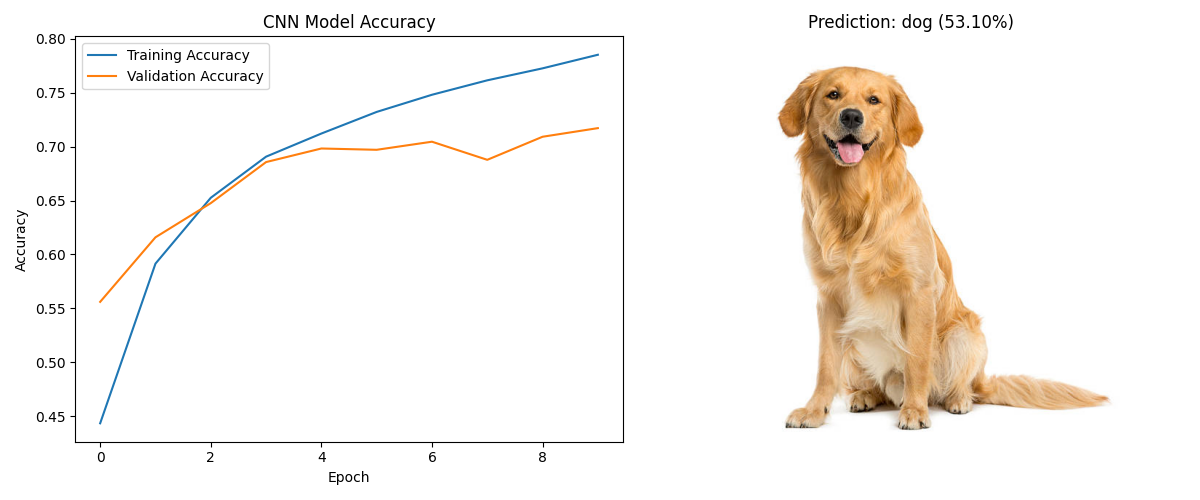
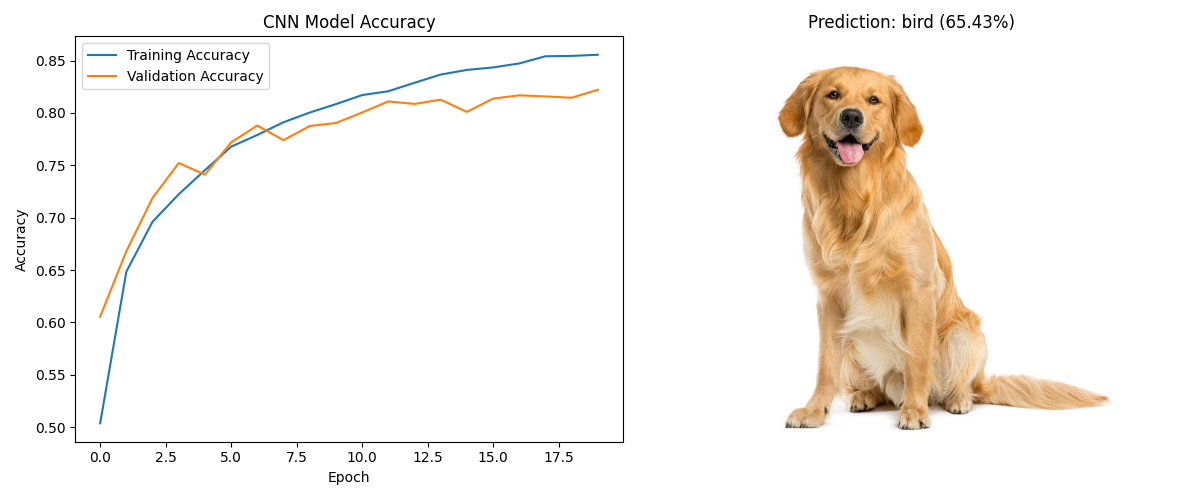
feat: Add model saving and loading mechanism to skip redundant training

diff --git a/5주차_과제/02_cifar10_cnn.py b/5주차_과제/02_cifar10_cnn.py
@@ -25,37 +25,52 @@ class_names = ['airplane', 'automobile', 'bird', 'cat', 'deer',
 # 2. 데이터 전처리 (0~1 범위로 정규화)
 x_train, x_test = x_train / 255.0, x_test / 255.0
 
-# 3. CNN 모델 설계 (정확도 향상 버전)
-model = Sequential([
-    Conv2D(32, (3, 3), padding='same', activation='relu', input_shape=(32, 32, 3)),
-    BatchNormalization(),
-    Conv2D(32, (3, 3), padding='same', activation='relu'),
-    BatchNormalization(),
-    MaxPooling2D((2, 2)),
-    Dropout(0.25),
+# 3~5. 모델 불러오기 또는 새로 훈련하기
+model_path = os.path.join(results_dir, 'cifar10_model.keras')
 
-    Conv2D(64, (3, 3), padding='same', activation='relu'),
-    BatchNormalization(),
-    Conv2D(64, (3, 3), padding='same', activation='relu'),
-    BatchNormalization(),
-    MaxPooling2D((2, 2)),
-    Dropout(0.25),
+if os.path.exists(model_path):
+    # 저장된 모델이 있으면 훈련 건너뛰고 바로 불러오기
+    print(f"\n저장된 모델을 발견했습니다! 훈련을 생략하고 '{model_path}'에서 불러옵니다.")
+    model = tf.keras.models.load_model(model_path)
+    trained_now = False
+else:
+    print("\n저장된 모델이 없습니다. 새롭게 훈련을 시작합니다 (이후에는 자동으로 저장되어 훈련이 생략될 수 있습니다).")
+    # 3. CNN 모델 설계 (정확도 향상 버전)
+    model = Sequential([
+        Conv2D(32, (3, 3), padding='same', activation='relu', input_shape=(32, 32, 3)),
+        BatchNormalization(),
+        Conv2D(32, (3, 3), padding='same', activation='relu'),
+        BatchNormalization(),
+        MaxPooling2D((2, 2)),
+        Dropout(0.25),
 
-    Flatten(),
-    Dense(128, activation='relu'),
-    BatchNormalization(),
-    Dropout(0.5),
-    Dense(10, activation='softmax')
-])
+        Conv2D(64, (3, 3), padding='same', activation='relu'),
+        BatchNormalization(),
+        Conv2D(64, (3, 3), padding='same', activation='relu'),
+        BatchNormalization(),
+        MaxPooling2D((2, 2)),
+        Dropout(0.25),
 
-# 4. 모델 훈련 설정 (컴파일)
-model.compile(optimizer='adam',
-              loss='sparse_categorical_crossentropy',
-              metrics=['accuracy'])
+        Flatten(),
+        Dense(128, activation='relu'),
+        BatchNormalization(),
+        Dropout(0.5),
+        Dense(10, activation='softmax')
+    ])
 
-# 5. 모델 훈련
-print("CNN 모델 훈련 시작...")
-history = model.fit(x_train, y_train, epochs=20, validation_data=(x_test, y_test))
+    # 4. 모델 훈련 설정 (컴파일)
+    model.compile(optimizer='adam',
+                  loss='sparse_categorical_crossentropy',
+                  metrics=['accuracy'])
+
+    # 5. 모델 훈련
+    print("CNN 모델 훈련 시작...")
+    history = model.fit(x_train, y_train, epochs=20, validation_data=(x_test, y_test))
+    
+    # 훈련 완료 후 모델 로컬 저장
+    model.save(model_path)
+    print(f"모델 훈련 완료! '{model_path}' 경로에 영구적으로 저장되었습니다.")
+    trained_now = True
 
 # 6. 모델 성능 평가
 print("\n모델 평가:")
@@ -84,22 +99,28 @@ if os.path.exists(img_path):
     print(f"\n예측 결과: {predicted_class} (정확도: {confidence:.2f}%)")
     
     # 8. 결과 시각화 및 저장
-    plt.figure(figsize=(12, 5))
-    
-    # 모델 정확도 변화 그래프
-    plt.subplot(1, 2, 1)
-    plt.plot(history.history['accuracy'], label='Training Accuracy')
-    plt.plot(history.history['val_accuracy'], label='Validation Accuracy')
-    plt.title('CNN Model Accuracy')
-    plt.xlabel('Epoch')
-    plt.ylabel('Accuracy')
-    plt.legend()
-    
-    # 테스트 이미지 예측 결과 패널
-    plt.subplot(1, 2, 2)
-    plt.imshow(img_rgb)
-    plt.title(f"Prediction: {predicted_class} ({confidence:.2f}%)")
-    plt.axis('off')
+    if trained_now:
+        # 훈련을 막 끝냈다면 Epoch 정확도 그래프와 함께 결과 표출
+        plt.figure(figsize=(12, 5))
+        
+        plt.subplot(1, 2, 1)
+        plt.plot(history.history['accuracy'], label='Training Accuracy')
+        plt.plot(history.history['val_accuracy'], label='Validation Accuracy')
+        plt.title('CNN Model Accuracy')
+        plt.xlabel('Epoch')
+        plt.ylabel('Accuracy')
+        plt.legend()
+        
+        plt.subplot(1, 2, 2)
+        plt.imshow(img_rgb)
+        plt.title(f"Prediction: {predicted_class} ({confidence:.2f}%)")
+        plt.axis('off')
+    else:
+        # 로드만 했으므로 이미지만 결과로 표출
+        plt.figure(figsize=(6, 5))
+        plt.imshow(img_rgb)
+        plt.title(f"Prediction: {predicted_class} ({confidence:.2f}%)\n(Loaded Pre-trained Model)")
+        plt.axis('off')
     
     plt.tight_layout()
     plt.savefig(os.path.join(results_dir, '과제2_결과.png'))
